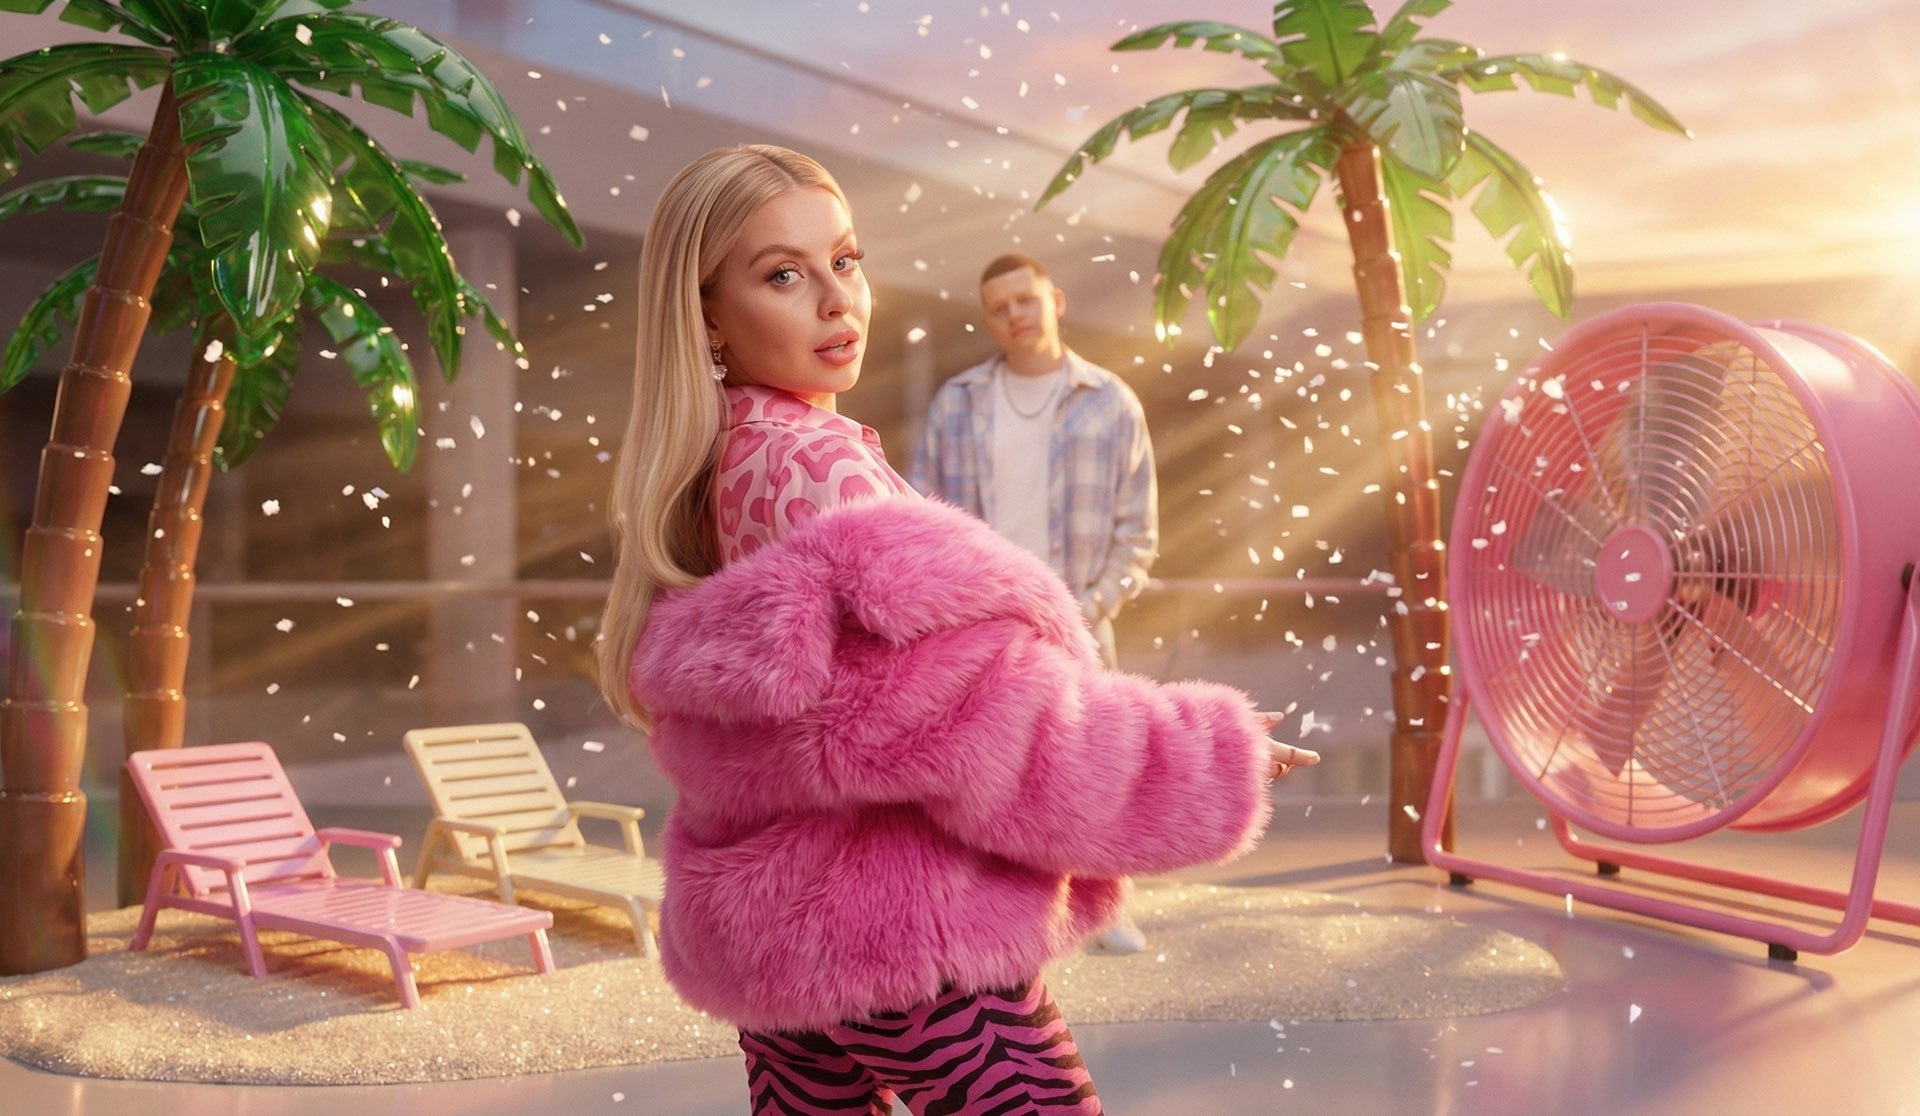
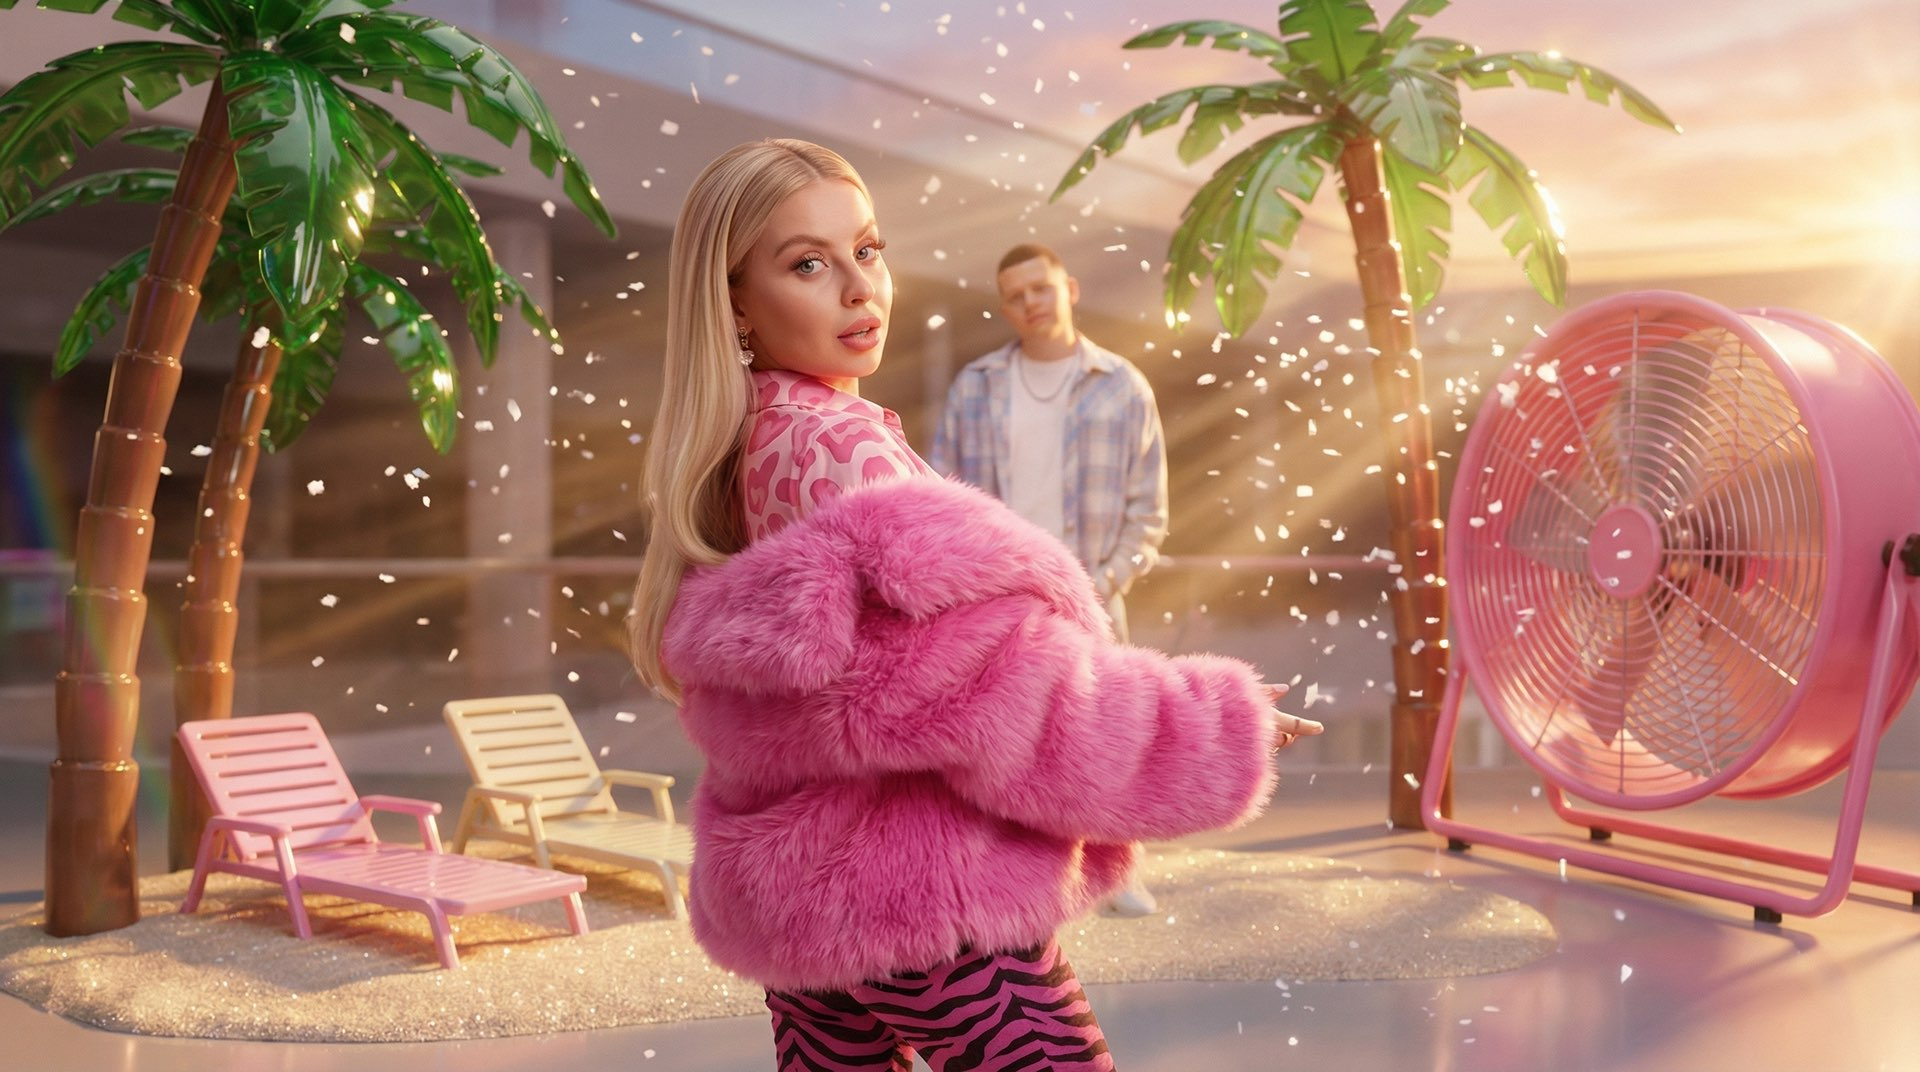
Update images and add pink animated loader with spinning heart

diff --git a/script.js b/script.js
@@ -21,7 +21,11 @@ document.addEventListener("DOMContentLoaded", () => {
         "17.png",
         "18.png",
         "19.png",
-        "20.png"
+        "20.png",
+        "21.png",
+        "22.png",
+        "23.png",
+        "24.png"
     ];
 
     const maxSlides = imageFiles.length;
@@ -30,25 +34,30 @@ document.addEventListener("DOMContentLoaded", () => {
 
     const catchphrases = [
         { title: "SCENE_01", desc: "Главный тизер. Музыкальное шоу, загрузка видеоряда." },
-        { title: "SCENE_02", desc: "Анна на главной сцене. Блики и текстура одежды." },
-        { title: "SCENE_03", desc: "Гардеробная Мечты. Симметрия и масштаб пространства." },
-        { title: "SCENE_04", desc: "Розовый Кабриолет. Динамика и глубина кадра." },
-        { title: "SCENE_05", desc: "Примерочная. Идеальная игра света и тени." },
-        { title: "SCENE_06", desc: "Эпичный Особняк. Широкий архитектурный план." },
-        { title: "SCENE_07", desc: "Студийная Съемка. Идеальные пропорции 'Sims'." },
-        { title: "SCENE_08", desc: "Музыкальная Студия. Детализация инструментов." },
-        { title: "SCENE_09", desc: "Идеальный Ужин. Композиция и фуд-стилистика." },
-        { title: "SCENE_10", desc: "Мужской Клуб. Дымчатая и приватная эстетика." },
-        { title: "SCENE_11", desc: "Азартная Игра. Фокус на фишках и долларах." },
-        { title: "SCENE_12", desc: "Клубная Ночь. Неоновый свет и визуальный ритм." },
-        { title: "SCENE_13", desc: "Воздушная Прогулка. Огромные элементы природы." },
-        { title: "SCENE_14", desc: "Сердце-Зеркало. Искусственная 3D перспектива." },
-        { title: "SCENE_15", desc: "Покупка. Крупная фактура матового пластика." },
-        { title: "SCENE_16", desc: "Летний Бриз. Освещение, движение и легкость." },
-        { title: "SCENE_17", desc: "Пуховик в Раю. Яркий залитый солнцем кадр." },
-        { title: "SCENE_18", desc: "Релакс у Бассейна. Розовые шезлонги и вода." },
-        { title: "SCENE_19", desc: "Гламурная Вечеринка. Контраст и вспышки камер." },
-        { title: "SCENE_20", desc: "Гранд-Финал. Общий план всех элементов." }
+        { title: "SCENE_02", desc: "Шоу-рум. Неоновые акценты и глянцевый манекен." },
+        { title: "SCENE_03", desc: "Архитектура. Глубокая симметрия и пастельные тона." },
+        { title: "SCENE_04", desc: "Крупный План. Идеальная пластика и свет." },
+        { title: "SCENE_05", desc: "Студия. Минимализм, геометрия теней и пустоты." },
+        { title: "SCENE_06", desc: "Внимание к Деталям. Текстура одежды крупным планом." },
+        { title: "SCENE_07", desc: "Глянец. Дорогой журнальный сеттинг." },
+        { title: "SCENE_08", desc: "Абсолютная Роскошь. Розовый интерьер и мягкий блюр." },
+        { title: "SCENE_09", desc: "В движении. Размытие и эффект скорости." },
+        { title: "SCENE_10", desc: "Контраст. Строгий силуэт на светлом фоне." },
+        { title: "SCENE_11", desc: "Гардеробная Мечты. Запредельный масштаб." },
+        { title: "SCENE_12", desc: "Арт-Объект. Футуристичный дизайн и холодный свет." },
+        { title: "SCENE_13", desc: "Ожидание. Интимная и кинематографичная мизансцена." },
+        { title: "SCENE_14", desc: "Высокая Мода. Безупречная стилистика кадра." },
+        { title: "SCENE_15", desc: "За сценой. Атмосфера бэкстейджа." },
+        { title: "SCENE_16", desc: "Силуэт. Игра с контровым светом." },
+        { title: "SCENE_17", desc: "Интерьер. Классика в современной обработке." },
+        { title: "SCENE_18", desc: "Городской Шик. Урбанистический фон и неон." },
+        { title: "SCENE_19", desc: "Стритстайл. Динамичный уличный сеттинг." },
+        { title: "SCENE_20", desc: "Абстракция. Форма, цвет и отсутствие лишнего." },
+        { title: "SCENE_21", desc: "Новый Ракурс. Нестандартная операторская работа." },
+        { title: "SCENE_22", desc: "Идеальный Ужин. Фуд-стилистика и композиция." },
+        { title: "SCENE_23", desc: "Мужской Клуб. Дымчатая и приватная эстетика." },
+        { title: "SCENE_24", desc: "Азартная Игра. Фокус на фишках и деталях." },
+        { title: "SCENE_25", desc: "Гранд-Финал. Общий план всех элементов." }
     ];
 
     // 2. DOM Elements
@@ -76,6 +85,30 @@ document.addEventListener("DOMContentLoaded", () => {
             changeSlide(1);
         }
     });
+
+    // --- ЛОДЕР И ПЛАВНЫЙ СТАРТ ---
+    const pinkLoader = document.getElementById('pink-loader');
+
+    function removeLoader() {
+        if (!pinkLoader) return;
+        pinkLoader.style.opacity = '0';
+        pinkLoader.style.transform = 'scale(1.1)'; // легкий зум при исчезновении
+        setTimeout(() => pinkLoader.remove(), 800); // Полностью удаляем из DOM
+
+        // Как только Лодер спрятали запускаем UI
+        gsap.fromTo('.info-panel', { y: 30, opacity: 0 }, { y: 0, opacity: 1, duration: 0.8, delay: 0.2, ease: "power3.out" });
+        gsap.fromTo('.remote-panel', { y: 30, opacity: 0 }, { y: 0, opacity: 1, duration: 0.8, delay: 0.3, ease: "power3.out" });
+    }
+
+    // Если видео уже в кэше и готово
+    if (videoElem.readyState >= 3) {
+        removeLoader();
+    } else {
+        // Ждем пока видео скачается
+        videoElem.addEventListener('canplay', removeLoader);
+        // Запасной таймер на случай багов браузера (сработает через 4с)
+        setTimeout(removeLoader, 4000);
+    }
 
     // Initial Load
     updateContent(0, 0);
@@ -206,8 +239,4 @@ document.addEventListener("DOMContentLoaded", () => {
         btnNext.style.opacity = index === maxSlides - 1 ? "0.3" : "1";
         btnNext.style.cursor = index === maxSlides - 1 ? "default" : "pointer";
     }
-
-    // Легкая анимация появления UI при самой первой загрузке страницы
-    gsap.fromTo('.info-panel', { y: 30, opacity: 0 }, { y: 0, opacity: 1, duration: 0.8, delay: 0.5, ease: "power3.out" });
-    gsap.fromTo('.remote-panel', { y: 30, opacity: 0 }, { y: 0, opacity: 1, duration: 0.8, delay: 0.6, ease: "power3.out" });
 });

diff --git a/style.css b/style.css
@@ -208,14 +208,14 @@ html {
     bottom: 50px;
     left: 50px;
     padding: 24px 30px;
-    max-width: 400px;
+    max-width: 420px;
 }
 
 .info-header {
     display: flex;
     align-items: center;
     gap: 12px;
-    margin-bottom: 8px;
+    margin-bottom: 12px;
 }
 
 .pulse-dot {
@@ -242,19 +242,26 @@ html {
 }
 
 .mono-title {
-    font-family: var(--font-mono);
-    font-size: 0.95rem;
-    font-weight: 700;
-    color: var(--accent);
-    letter-spacing: 0.1em;
+    font-family: var(--font-sans);
+    /* Более ясный современный заголовок */
+    font-size: 1.25rem;
+    font-weight: 600;
+    color: var(--text-primary);
+    letter-spacing: -0.02em;
     text-transform: uppercase;
 }
 
 .info-panel p {
-    font-size: 1.15rem;
-    color: var(--text-primary);
+    font-family: var(--font-mono);
+    /* Текст теперь строгим мелким шрифтом */
+    font-size: 0.85rem;
+    color: var(--text-secondary);
     line-height: 1.5;
-    font-weight: 500;
+    font-weight: 400;
+    opacity: 0.9;
+    border-top: 1px solid rgba(0, 0, 0, 0.05);
+    /* Легкий разделитель */
+    padding-top: 12px;
 }
 
 
@@ -452,5 +459,71 @@ Mobile Adaptability
         border: 1px solid rgba(0, 0, 0, 0.1);
         color: var(--text-primary);
         box-shadow: 0 4px 15px rgba(0, 0, 0, 0.05);
+    }
+}
+
+/* 
+=========================
+PINK LOADER SCREEN
+=========================
+*/
+.pink-loader {
+    position: fixed;
+    top: 0;
+    left: 0;
+    width: 100vw;
+    height: 100vh;
+    background: #ffb7d5;
+    /* Розовый цвет в стиле Барби */
+    z-index: 9999;
+    display: flex;
+    justify-content: center;
+    align-items: center;
+    transition: opacity 0.8s ease-out, transform 0.8s ease-in;
+}
+
+.loader-content {
+    display: flex;
+    flex-direction: column;
+    align-items: center;
+    gap: 20px;
+}
+
+.spinning-heart {
+    width: 60px;
+    height: 60px;
+    animation: heartSpin 1.5s cubic-bezier(0.68, -0.55, 0.27, 1.55) infinite;
+}
+
+.loader-text {
+    font-family: var(--font-mono);
+    color: #fff;
+    font-size: 1.2rem;
+    font-weight: 700;
+    letter-spacing: 0.2em;
+    animation: textPulse 1s ease-in-out infinite alternate;
+}
+
+@keyframes heartSpin {
+    0% {
+        transform: scale(1) rotate(0deg);
+    }
+
+    50% {
+        transform: scale(1.3) rotate(180deg);
+    }
+
+    100% {
+        transform: scale(1) rotate(360deg);
+    }
+}
+
+@keyframes textPulse {
+    from {
+        opacity: 0.5;
+    }
+
+    to {
+        opacity: 1;
     }
 }

diff --git a/index.html b/index.html
@@ -14,6 +14,18 @@
 
 <body>
 
+    <!-- Экран загрузки видео (Исчезает, когда видео готово) -->
+    <div id="pink-loader" class="pink-loader">
+        <div class="loader-content">
+            <svg class="spinning-heart" viewBox="0 0 32 32" xmlns="http://www.w3.org/2000/svg">
+                <path
+                    d="M16 28.72l-1.4-1.28C8.98 22.34 5 18.73 5 14.1 5 10.32 7.82 7.5 11.6 7.5c2.14 0 4.19 1.01 5.4 2.62C18.21 8.51 20.26 7.5 22.4 7.5 26.18 7.5 29 10.32 29 14.1c0 4.63-3.98 8.24-9.6 13.34L16 28.72z"
+                    fill="#fff" />
+            </svg>
+            <div class="loader-text">ЗАГРУЗКА...</div>
+        </div>
+    </div>
+
     <div class="app-container">
         <!-- 16:9 Контейнер для точной привязки -->
         <div class="scene-aspect">
